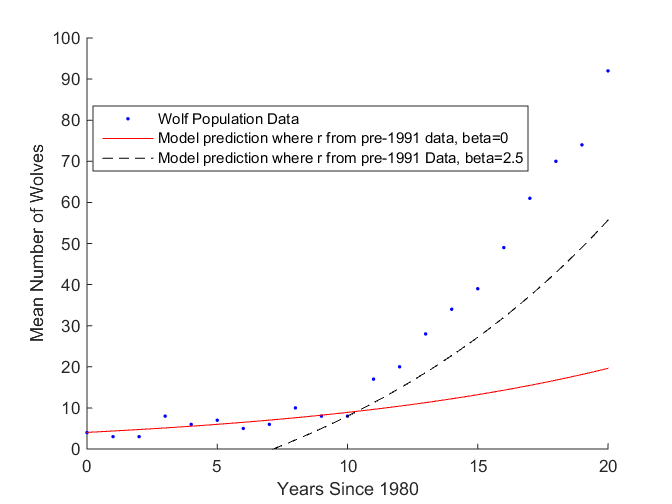
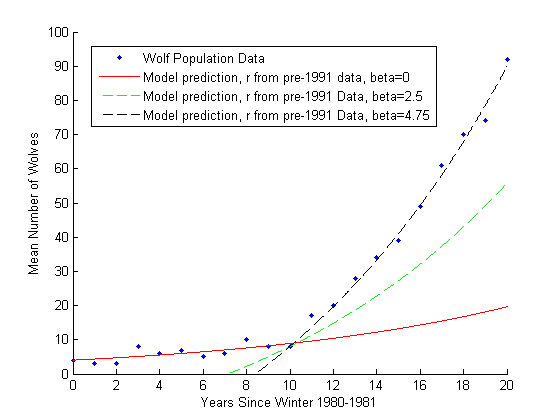
ok

diff --git a/initFit2.m b/initFit2.m
@@ -54,8 +54,8 @@ xxPlot4 = (0:0.01:20);
 yyPlot4 = n0All.*exp(rValueAll.*xxPlot4);
 
 immBeta = 0.5;
-immBeta2 = 1;
-immBeta3 = 2.5;
+immBeta2 = 2.5;
+immBeta3 = 4.75;
 meanWolvesIn1990 = 8;
 yyPlot3Imm = meanWolvesIn1990.*exp(rValuePre91.*(xxPlot3-10)) + ...
     (immBeta/rValuePre91).*exp(rValuePre91.*(xxPlot3-10)) - immBeta/rValuePre91;
@@ -81,11 +81,13 @@ figure
 hold on
 plot(0:20,meanTotalWolves,'b.');
 plot(xxPlot3,yyPlot3,'r-');
+plot(xxPlot3,yyPlot3Imm2,'g--');
 plot(xxPlot3,yyPlot3Imm3,'k--');
 axis([0 20 0 100]);
-legend('Wolf Population Data','Model prediction where r from pre-1991 data, beta=0',...
-    'Model prediction where r from pre-1991 Data, beta=2.5');
-xlabel('Years Since 1980');
+legend('Wolf Population Data','Model prediction, r from pre-1991 data, beta=0',...
+    'Model prediction, r from pre-1991 Data, beta=2.5',...
+    'Model prediction, r from pre-1991 Data, beta=4.75');
+xlabel('Years Since Winter 1980-1981');
 ylabel('Mean Number of Wolves');
 hold off
 
